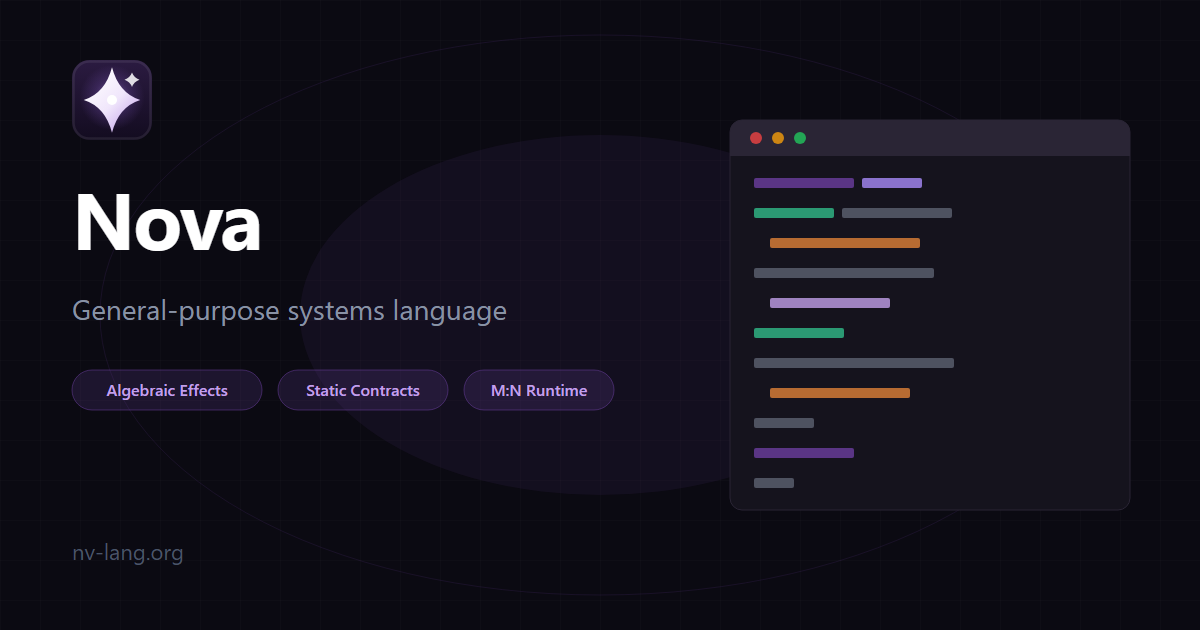
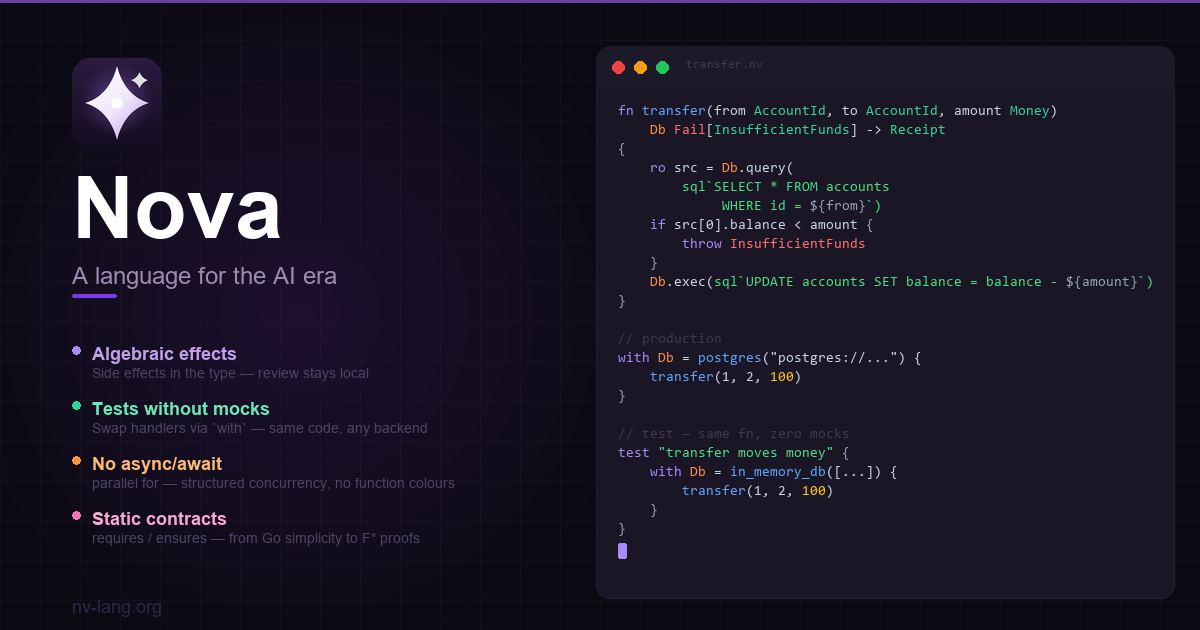
feat(home): add AI-era pitch section + updated og-image

diff --git a/site/src/styles/global.css b/site/src/styles/global.css
@@ -610,6 +610,69 @@ pre.nova-block .tok-ident   { color: #9cdcfe; }                    /* light blue
   margin: 0;
 }
 
+/* ── AI-era pitch ────────────────────────────────────────────────────────── */
+.ai-pitch {
+  padding: 5rem 1.5rem;
+  background: var(--bg-alt);
+  border-top: 1px solid var(--border);
+  border-bottom: 1px solid var(--border);
+}
+
+.ai-pitch__heading {
+  text-align: center;
+  font-size: clamp(1.55rem, 3.5vw, 2.2rem);
+  letter-spacing: -0.025em;
+  margin-bottom: 0.75rem;
+}
+
+.ai-pitch__sub {
+  text-align: center;
+  color: var(--fg-muted);
+  font-size: 1.05rem;
+  max-width: 640px;
+  margin-inline: auto;
+  margin-bottom: 3rem;
+}
+
+.ai-pitch__grid {
+  max-width: 1100px;
+  margin-inline: auto;
+  display: grid;
+  grid-template-columns: repeat(auto-fit, minmax(240px, 1fr));
+  gap: 1.75rem 2.5rem;
+}
+
+.ai-pitch__item {
+  display: flex;
+  gap: 1rem;
+  align-items: flex-start;
+}
+
+.ai-pitch__dot {
+  flex-shrink: 0;
+  width: 10px;
+  height: 10px;
+  border-radius: 50%;
+  background: var(--dot);
+  margin-top: 0.45rem;
+  box-shadow: 0 0 8px var(--dot);
+}
+
+.ai-pitch__item strong {
+  display: block;
+  font-size: 1rem;
+  font-weight: 700;
+  margin-bottom: 0.35rem;
+  color: var(--fg);
+}
+
+.ai-pitch__item p {
+  color: var(--fg-muted);
+  font-size: 0.93rem;
+  margin: 0;
+  line-height: 1.6;
+}
+
 /* ── Install section ─────────────────────────────────────────────────────── */
 .install {
   background: var(--bg-alt);

diff --git a/site/src/partials/en-index.html b/site/src/partials/en-index.html
@@ -83,6 +83,50 @@ fn fetch_user(id u64) Db Log -> Result[User, NotFound]
   </div>
 </section>
 
+<!-- ── AI-era pitch ───────────────────────────────────────────────────────── -->
+<section class="ai-pitch">
+  <div class="container">
+    <p class="section-label" style="text-align:center;">Designed for today</p>
+    <h2 class="ai-pitch__heading">The language LLMs write,<br>humans can actually review</h2>
+    <p class="ai-pitch__sub">More and more code is generated by AI. But humans still review it. Nova is the first language explicitly designed for this ratio — side effects are visible in the type, so you can verify a function without reading its body or all the things it calls.</p>
+    <div class="ai-pitch__grid">
+
+      <div class="ai-pitch__item">
+        <div class="ai-pitch__dot" style="--dot:#a78bfa;"></div>
+        <div>
+          <strong>Algebraic effects</strong>
+          <p>Side effects appear in the type signature — between parameters and the return arrow. Review stays local: you know what a function does without reading its body.</p>
+        </div>
+      </div>
+
+      <div class="ai-pitch__item">
+        <div class="ai-pitch__dot" style="--dot:#34d399;"></div>
+        <div>
+          <strong>Tests without mocks</strong>
+          <p>Swap any dependency via a <code>with</code> block — the same business logic runs against a real database in production and an in-memory handler in tests. No mocking library needed.</p>
+        </div>
+      </div>
+
+      <div class="ai-pitch__item">
+        <div class="ai-pitch__dot" style="--dot:#fb923c;"></div>
+        <div>
+          <strong>Concurrency without async/await</strong>
+          <p><code>parallel for</code> runs iterations concurrently with structured scoping. Functions don't need an <code>async</code> keyword — suspension is ambient. No function colouring.</p>
+        </div>
+      </div>
+
+      <div class="ai-pitch__item">
+        <div class="ai-pitch__dot" style="--dot:#f472b6;"></div>
+        <div>
+          <strong>Static contracts</strong>
+          <p><code>requires</code> and <code>ensures</code> clauses cover a spectrum: write nothing and it runs like Go; add annotations and the compiler proves them statically, like F* or Dafny.</p>
+        </div>
+      </div>
+
+    </div>
+  </div>
+</section>
+
 <!-- ── Second code example ───────────────────────────────────────────────── -->
 <section style="background:var(--bg-alt);border-top:1px solid var(--border);border-bottom:1px solid var(--border);padding:4rem 1.5rem;">
   <div class="showcase-split">

diff --git a/site/src/partials/index.html b/site/src/partials/index.html
@@ -81,6 +81,50 @@ fn fetch_user(id u64) Db Log -> Result[User, NotFound]
   </div>
 </section>
 
+<!-- ── AI-era pitch ───────────────────────────────────────────────────────── -->
+<section class="ai-pitch">
+  <div class="container">
+    <p class="section-label" style="text-align:center;">Создан для сегодня</p>
+    <h2 class="ai-pitch__heading">Язык, который пишет ИИ,<br>и который человек может проверить</h2>
+    <p class="ai-pitch__sub">Всё больше кода генерируется ИИ. Но проверяет его по-прежнему человек. Nova — первый язык, явно оптимизированный для этого соотношения: побочные эффекты видны в типе, и проверить функцию можно, не читая её тело и всё, что она вызывает.</p>
+    <div class="ai-pitch__grid">
+
+      <div class="ai-pitch__item">
+        <div class="ai-pitch__dot" style="--dot:#a78bfa;"></div>
+        <div>
+          <strong>Алгебраические эффекты</strong>
+          <p>Побочные эффекты указаны в сигнатуре — между параметрами и стрелкой возврата. Ревью становится локальным: видно, что делает функция, без чтения её тела.</p>
+        </div>
+      </div>
+
+      <div class="ai-pitch__item">
+        <div class="ai-pitch__dot" style="--dot:#34d399;"></div>
+        <div>
+          <strong>Тесты без моков</strong>
+          <p>Любую зависимость можно подменить через блок <code>with</code> — та же бизнес-логика работает с реальной базой в продакшене и с in-memory обработчиком в тестах. Мокинг-библиотеки не нужны.</p>
+        </div>
+      </div>
+
+      <div class="ai-pitch__item">
+        <div class="ai-pitch__dot" style="--dot:#fb923c;"></div>
+        <div>
+          <strong>Конкурентность без async/await</strong>
+          <p><code>parallel for</code> запускает итерации параллельно со структурным скоупингом. Функциям не нужно ключевое слово <code>async</code> — приостановка амбиентная. Нет «заражения» async.</p>
+        </div>
+      </div>
+
+      <div class="ai-pitch__item">
+        <div class="ai-pitch__dot" style="--dot:#f472b6;"></div>
+        <div>
+          <strong>Статические контракты</strong>
+          <p>Клаузы <code>requires</code> и <code>ensures</code> образуют спектр: без аннотаций работает как Go; добавьте аннотации — компилятор докажет их статически, как F* или Dafny.</p>
+        </div>
+      </div>
+
+    </div>
+  </div>
+</section>
+
 <!-- ── Second code example ───────────────────────────────────────────────── -->
 <section style="background:var(--bg-alt);border-top:1px solid var(--border);border-bottom:1px solid var(--border);padding:4rem 1.5rem;">
   <div class="showcase-split">